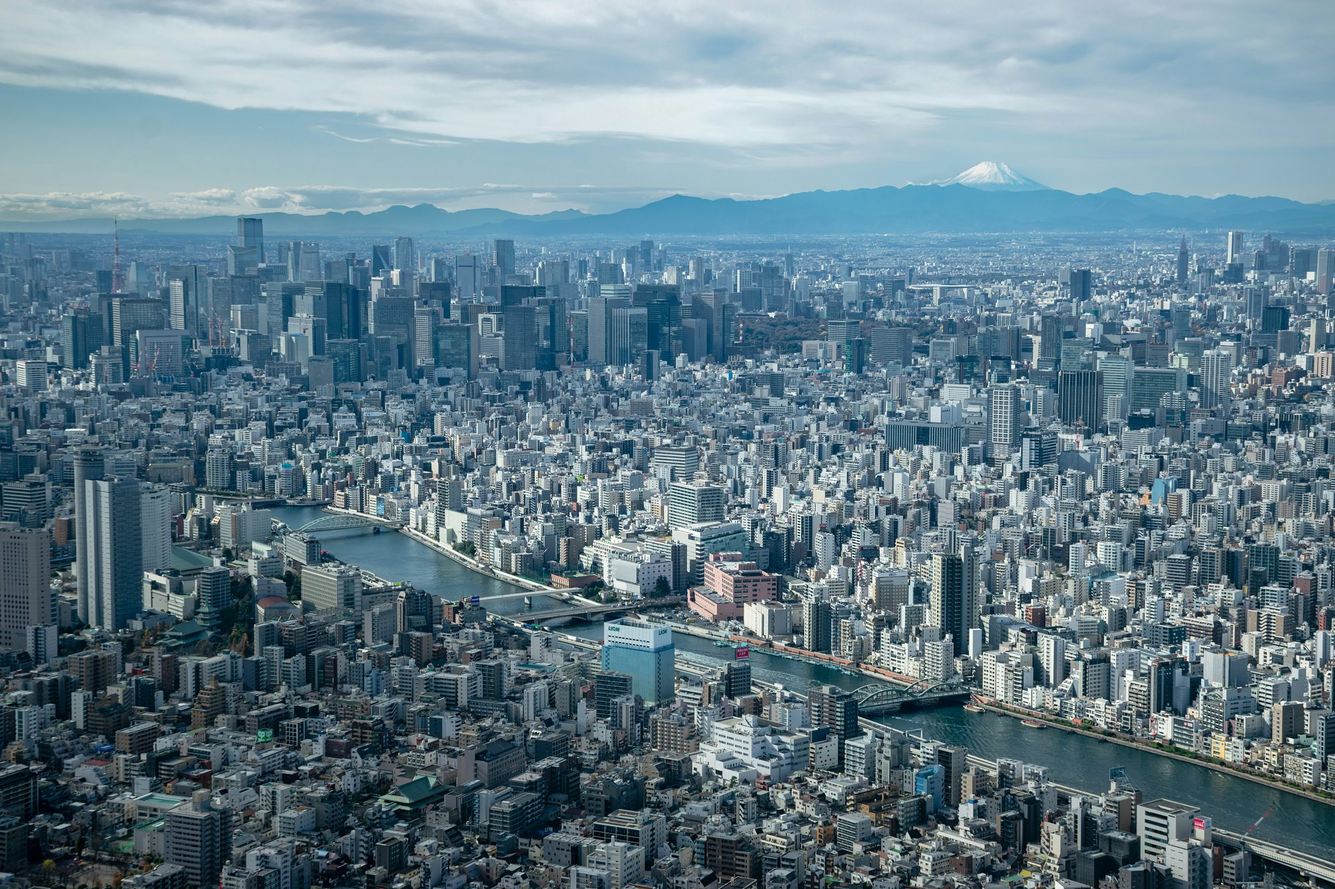
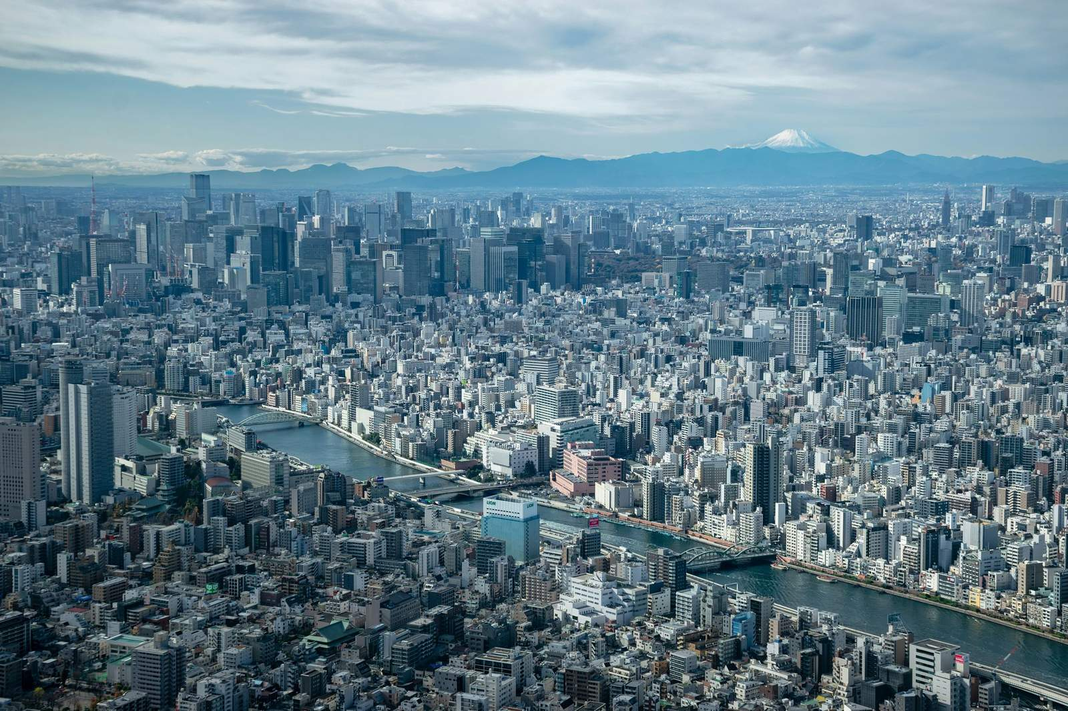
perf(company): optimize company hero image size and path resolution

diff --git a/company.html b/company.html
@@ -21,7 +21,7 @@
     <link rel="stylesheet" href="style.css?v=diag-top-white-wide-20260605-v25">
     <link rel="icon" type="image/png" href="favicon.png">
     <link rel="canonical" href="https://spacegleam.co.jp/company">
-    <link rel="preload" as="image" href="company-hero.webp" type="image/webp" fetchpriority="high">
+    <link rel="preload" as="image" href="/company-hero.webp" type="image/webp" fetchpriority="high">
 
     <!-- OGP Settings -->
     <meta property="og:title" content="会社概要 | SPACE GLEAM" />
@@ -77,8 +77,8 @@
         <!-- Full-width hero with overlay text -->
         <section class="company-hero-fullwidth">
             <picture>
-                <source srcset="company-hero.webp" type="image/webp">
-                <img src="company-hero.jpg" alt="Modern Tech Workspace" fetchpriority="high" loading="eager" decoding="async">
+                <source srcset="/company-hero.webp" type="image/webp">
+                <img src="/company-hero.jpg" alt="Modern Tech Workspace" fetchpriority="high" loading="eager">
             </picture>
             <div class="company-hero-overlay">
                 <div class="company-hero-inner">
